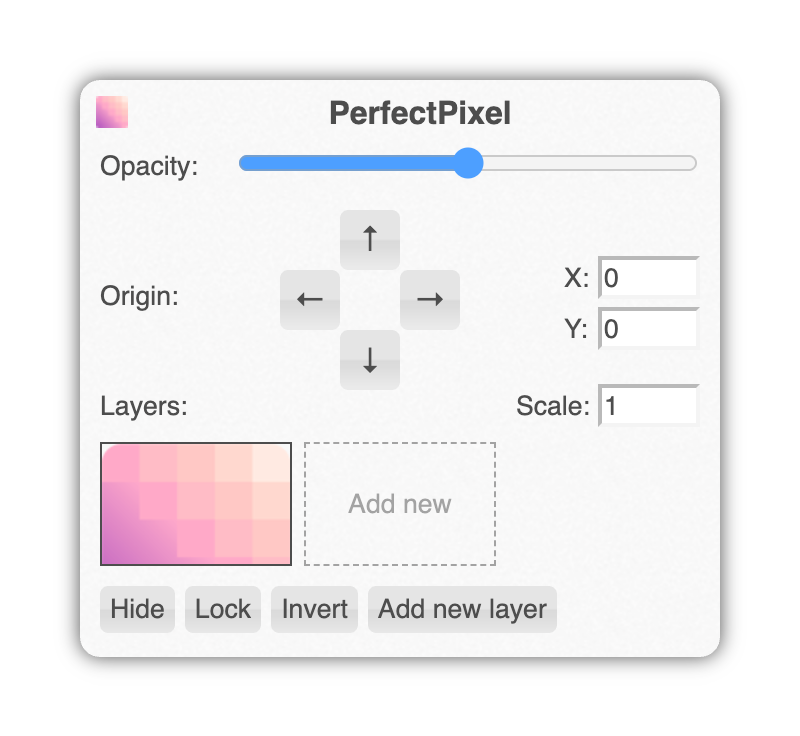
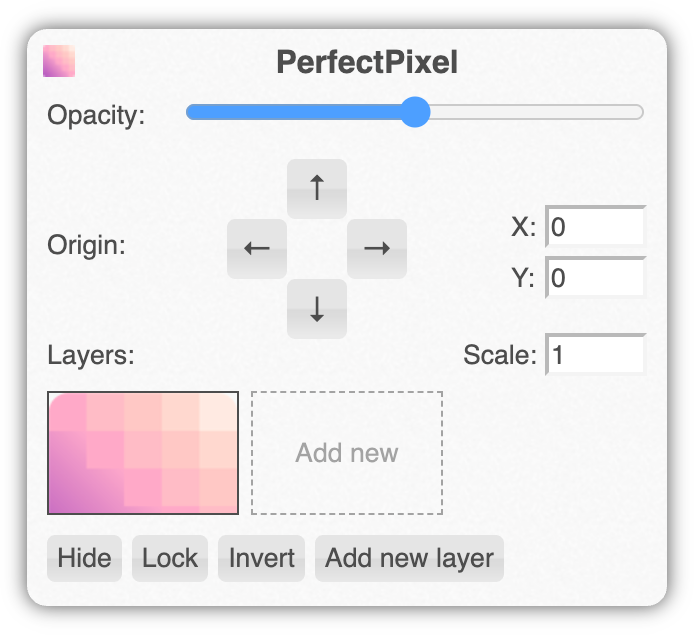
Crop README screenshot to content

diff --git a/README.md b/README.md
@@ -5,7 +5,7 @@ PerfectPixel by WellDoneCode [Legacy]
 
 Chrome extension for web developers
 
-<img src="Docs/screenshot.png" alt="PerfectPixel panel" width="400">
+<img src="Docs/screenshot.png" alt="PerfectPixel panel" width="347">
 
 How to install
 ==============
